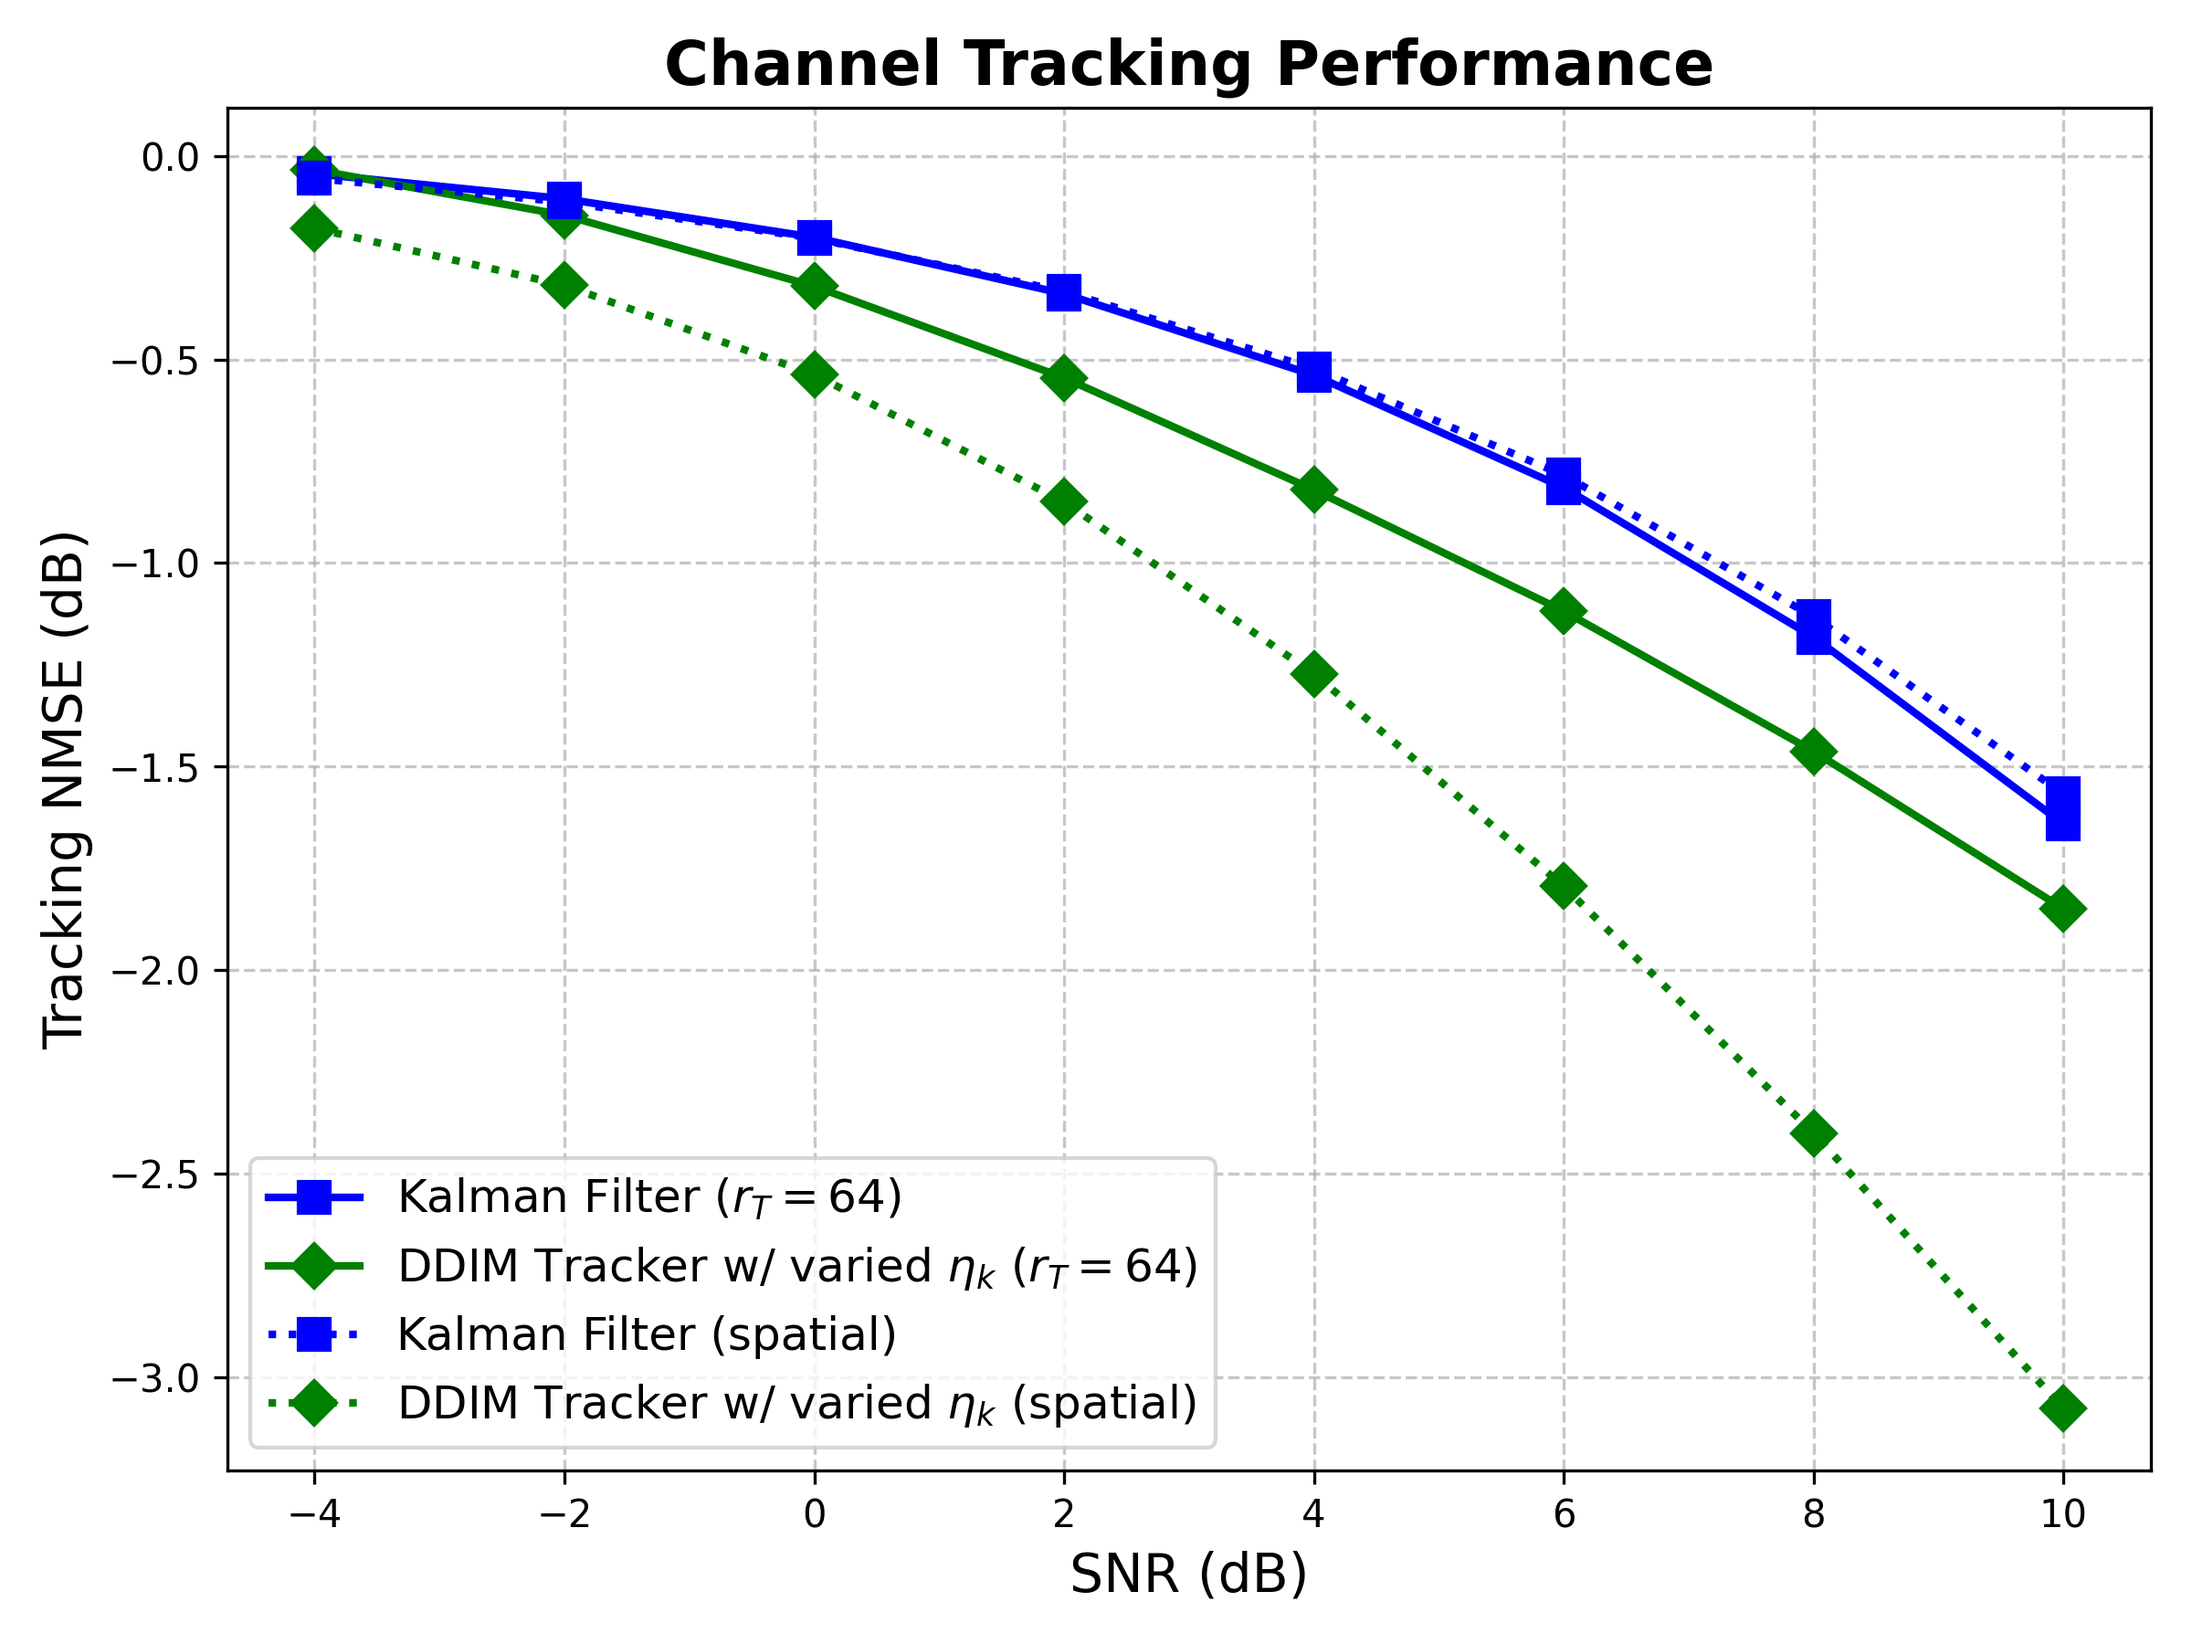
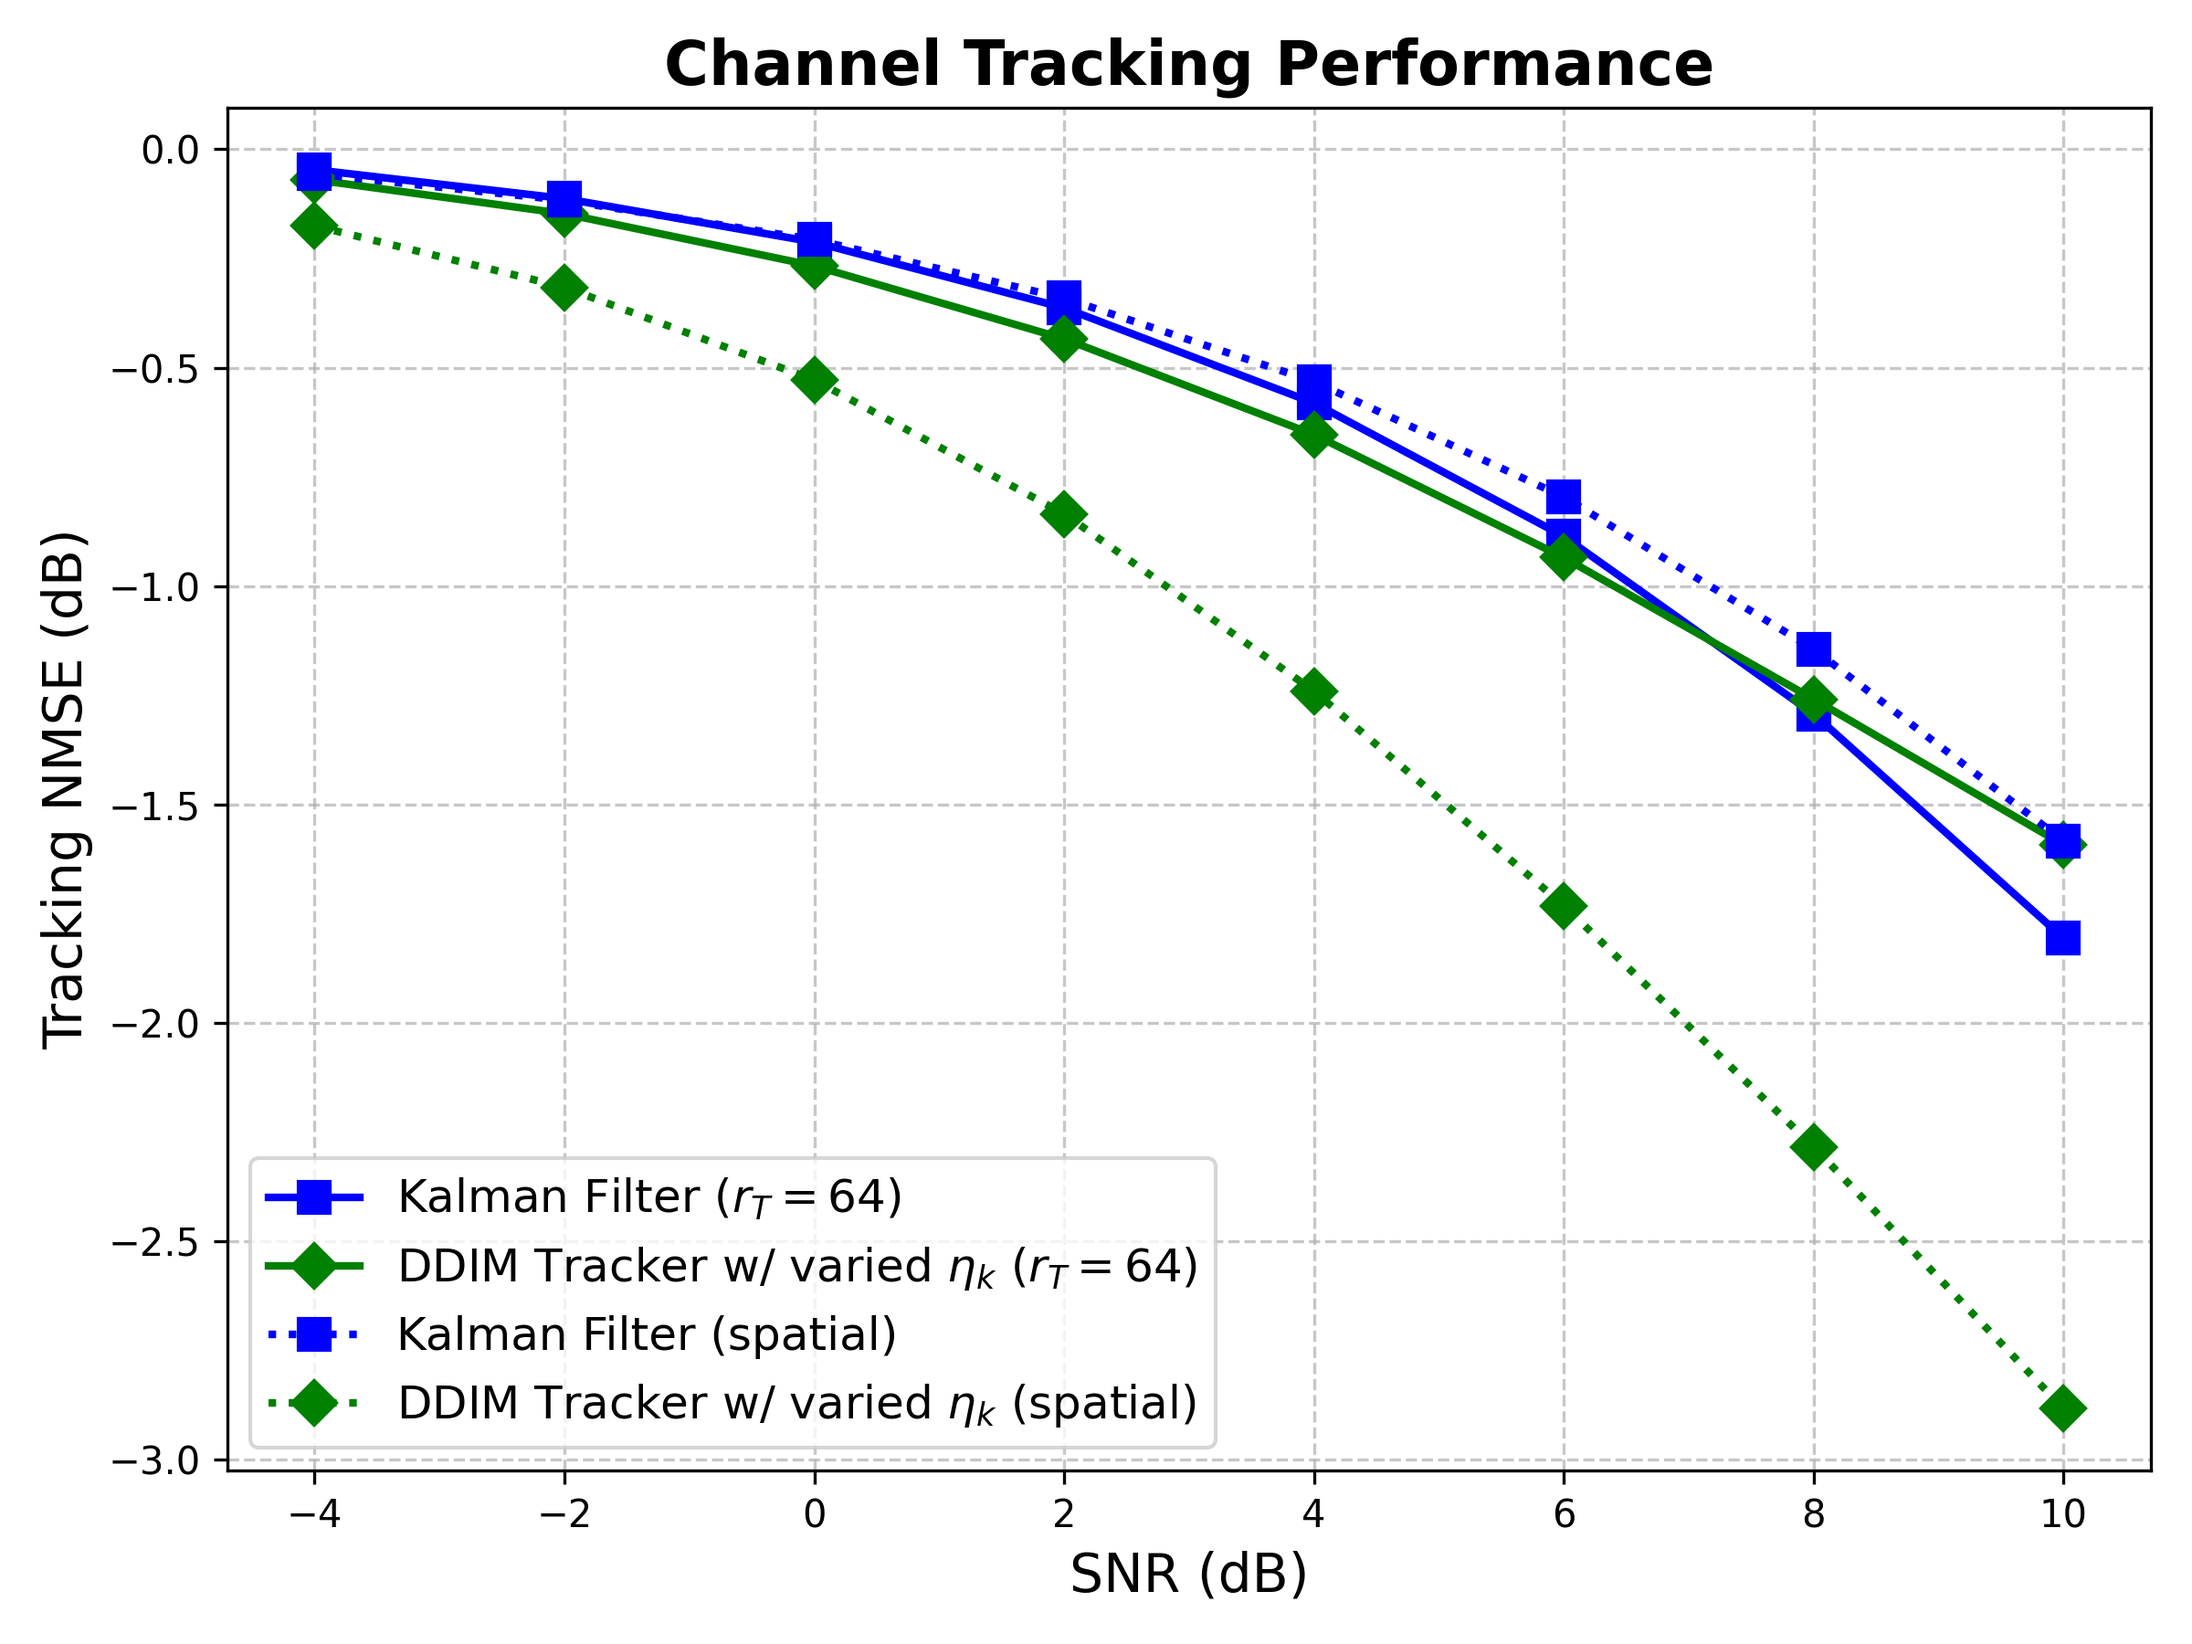
feat(\U\A\h_c): move the evolution model entirely in spatial domain

diff --git a/small_scale_channel_tracking/data/generate_tracking_test_dataset_nondiag.py b/small_scale_channel_tracking/data/generate_tracking_test_dataset_nondiag.py
@@ -26,7 +26,7 @@ SNR_LEVELS = [-4, -2, 0, 2, 4, 6, 8, 10]
 RHO = 0.1034       # Base temporal correlation
 OFF_DIAG_STD = 0.2 # Standard deviation of the off-diagonal leakage
 NUM_PILOTS = 64   # T >= r_T
-MODE = 'spatial' # 'spatial' or 'modal'
+MODE = 'modal' # 'spatial' or 'modal'
 
 # Input Paths
 CHANNEL_FILE = os.path.join(SCRIPT_DIR, "channel", f"channel_data_SC_{FREQ_GHZ}GHz_{TX_DIM[0]}x{TX_DIM[1]}Tx_{RX_DIM[0]}x{RX_DIM[1]}Rx_{NUM_TEST_SAMPLES}samples.mat")
@@ -107,15 +107,16 @@ def main():
     H_c_tensor = torch.squeeze(torch.tensor(H_c, dtype=torch.complex64))
     spatial_var = torch.var(H_c_tensor, dim=0)  ################
     # spatial_var = torch.ones(N_T)     
-    Q_std_spatial = torch.sqrt((1 - RHO**2) * spatial_var)  
+    # Q_std_spatial = torch.sqrt((1 - RHO**2) * spatial_var)  
     
-    # Generate spatial process noise w
-    w_real = torch.randn(NUM_TEST_SAMPLES, N_T)
-    w_imag = torch.randn(NUM_TEST_SAMPLES, N_T)
-    w_spatial = (w_real + 1j * w_imag) / np.sqrt(2) * Q_std_spatial
+    # # Generate spatial process noise w
+    # w_real = torch.randn(NUM_TEST_SAMPLES, N_T)
+    # w_imag = torch.randn(NUM_TEST_SAMPLES, N_T)
+    # w_spatial = (w_real + 1j * w_imag) / np.sqrt(2) * Q_std_spatial
     
     # Evolve the spatial channel first
-    Hc_tau_plus_1 = torch.matmul(H_c_tensor, A.t()) + w_spatial
+    # No process noise added. The uncertainty is strictly the spatial leakage inside A.
+    Hc_tau_plus_1 = torch.matmul(H_c_tensor, A.t())
     
     if MODE == 'spatial':
         x0_tau_plus_1 = Hc_tau_plus_1
@@ -125,30 +126,38 @@ def main():
         x0_tau_plus_1 = torch.matmul(Hc_tau_plus_1, U_T_tensor)
     # x0_tau_plus_1 = torch.matmul(x0_tau, A.t()) + w
     
-    # 5. Generate Pilot Observations (QPSK)
+# 5. Generate Pilot Observations (QPSK)
     print("Generating pilot measurements...")
+    
+    # 5a. Always generate the QPSK pilots in the tracker's native domain
     if MODE == 'spatial':
-        dim = TX_DIM[0] * TX_DIM[1]
+        dim = TX_DIM[0] * TX_DIM[1] # 64
     elif MODE == 'modal':
-        dim = R_T
+        dim = R_T # 38
+        
     M_real = (torch.randint(0, 2, size=(NUM_PILOTS, dim)).float() * 2 - 1) 
     M_imag = (torch.randint(0, 2, size=(NUM_PILOTS, dim)).float() * 2 - 1)
-    M_spatial = (M_real + 1j * M_imag) / np.sqrt(2)
+    M = (M_real + 1j * M_imag) / np.sqrt(2)
     
-    if MODE == 'spatial':
-        M = M_spatial
-    elif MODE == 'modal':
-        # Project the physical M matrix into the modal domain
-        # Math: M_modal = M_spatial * (U_pinv)^T
-        U_pinv_np = np.linalg.pinv(U_T_trunc) # Shape: (r_T, 64)
-        U_pinv_tensor = torch.tensor(U_pinv_np, dtype=torch.complex64)
+    # if MODE == 'spatial':
+    #     # Standard spatial transmission
+    #     M_tracker = M_base 
+    #     y_clean = torch.matmul(x0_tau_plus_1, M_tracker.t())
         
-        # M_spatial is (NUM_PILOTS, 64). U_pinv_tensor.t() is (64, r_T).
-        # Resulting M will be (NUM_PILOTS, r_T)
-        M = torch.matmul(M_spatial, U_pinv_tensor.t())
+    # elif MODE == 'modal':
+    #     # Math: M_spatial = M_modal * U_{T, r_T}^T
+    #     U_T_tensor = torch.tensor(U_T_trunc, dtype=torch.complex64)
+    #     M_spatial = torch.matmul(M_base, U_T_tensor.t()) # Shape: (NUM_PILOTS, 64)
+        
+    #     # Pass the physically precoded pilots through the TRUE SPATIAL channel (Hc_tau_plus_1)
+    #     # (3000, 64) @ (64, NUM_PILOTS) 
+    #     y_clean = torch.matmul(Hc_tau_plus_1, M_spatial.t()) 
+        
+    #     # The tracker only needs the modal pilots, it doesn't need to know about U_T
+    #     M_tracker = M_base
     
-    # Clean received signal: y_clean = x0_tau_plus_1 * M^T
-    y_clean = torch.matmul(x0_tau_plus_1, M.t()) # Shape: (3000, 38)
+    y_clean = torch.matmul(x0_tau_plus_1, M.t())
+    
     sig_power = torch.mean(torch.abs(y_clean)**2)
     
     # 6. Generate Noisy Observations for each SNR
@@ -162,7 +171,7 @@ def main():
         
         y_obs = y_clean + noise
         observations[snr] = y_obs
-        print(f"  Generated SNR = {snr:2d} dB")
+        # print(f"  Generated SNR = {snr:2d} dB")
         
     # 7. Pack and Save Dataset
     dataset = {

diff --git a/small_scale_channel_tracking/test_baseline_kalman_filter.py b/small_scale_channel_tracking/test_baseline_kalman_filter.py
@@ -63,10 +63,11 @@ def run_kalman_filter_baseline():
     num_pilots = config["num_pilots"]
     sigma2_w = np.mean(np.var(dataset["x0_tau"].numpy(), axis=0)) * (1 - rho**2) #########
     # sigma2_w = (1 - rho**2)
-    if MODE == 'modal':
-        Q_cov = sigma2_w * (U_T_trunc.conj().T @ U_T_trunc)   #(1 - rho**2)
-    elif MODE == 'spatial':
-        Q_cov = sigma2_w * np.eye(U_T_trunc.shape[0])   #(1 - rho**2)
+    # if MODE == 'modal':
+    #     Q_cov = sigma2_w * (U_T_trunc.conj().T @ U_T_trunc)   #(1 - rho**2)
+    # elif MODE == 'spatial':
+    #     Q_cov = sigma2_w * np.eye(U_T_trunc.shape[0])   #(1 - rho**2)
+    Q_cov = sigma2_w * np.eye(U_T_trunc.shape[0])   #(1 - rho**2)
     
     # Base signal power to calculate noise variance for R matrix
     y_clean = x0_tau_plus_1 @ M.T

diff --git a/small_scale_channel_tracking/main_DDIM_tracker.py b/small_scale_channel_tracking/main_DDIM_tracker.py
@@ -36,7 +36,7 @@ T_DIFFUSION = 1000.0
 # --- Tunable Tracking Parameters ---
 NUM_TEST_SAMPLES = 3000
 NUM_SAMPLING_STEPS = 1000
-K_START = 110
+K_START = 30
 DYNAMIC_ETA = True
 if DYNAMIC_ETA: GUIDANCE_LAMBDA = 50
 else: GUIDANCE_LAMBDA = 1.2
